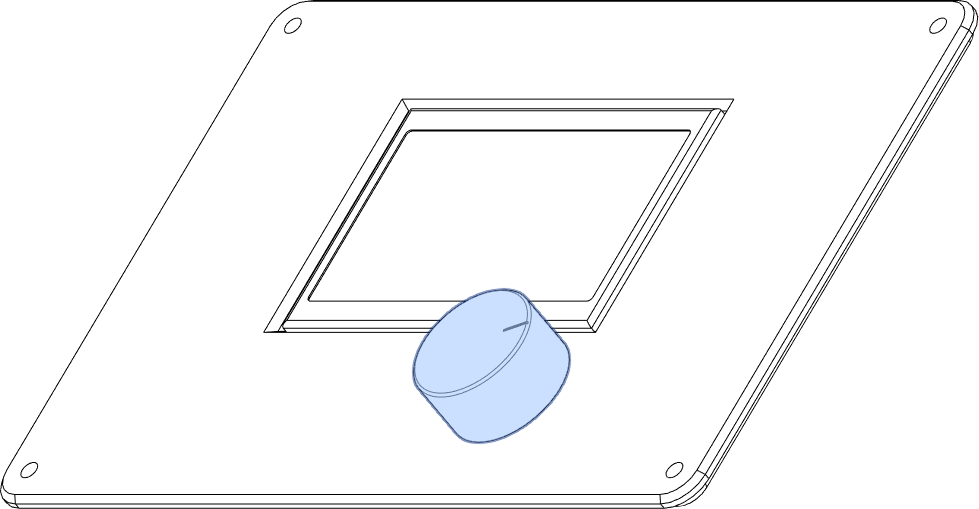
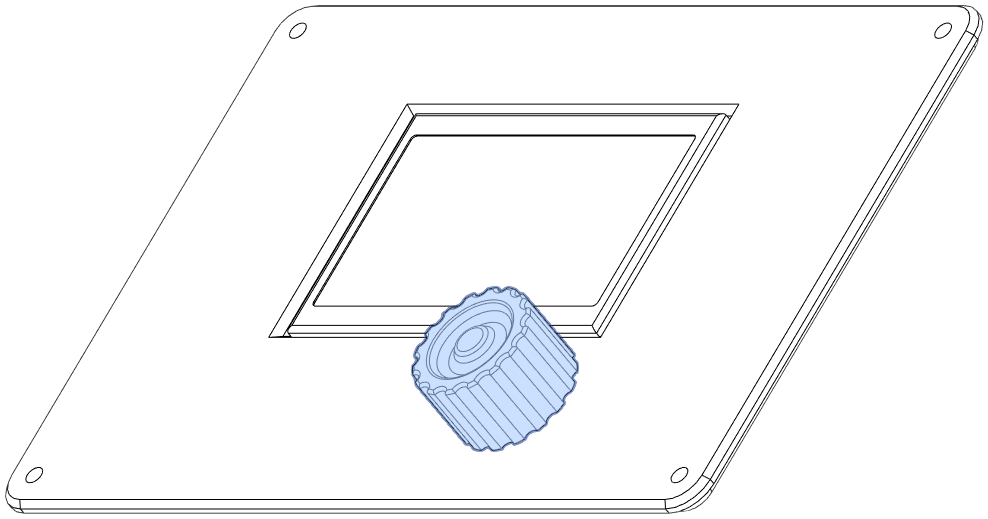
More updated docs

diff --git a/docs/assembly_v2/bottom_lid.md b/docs/assembly_v2/bottom_lid.md
@@ -1,62 +1,63 @@
 ---
-title: Rear Panel and Lid(s)
-summary: Adding the rear panel, wiring, and closing up.
+title: Bottom Panel & Lid
+summary: Final steps to close up the printer.
 authors: Jon Harper
-date: 2022-11-03
+date: 2022-11-15
 ---
 
-## Rear Panel
+This is the last section of the build. Here we close up the bottom and top of the case.
+
+## Bottom Panel
 
 ??? overview
-    <iframe src="https://jon-harper.github.io/OmniBox/video/0.9.9/rear.mp4" frameborder="0" width="100%" height="600px" allowfullscreen></iframe>
+    <iframe src="https://jon-harper.github.io/OmniBox/video/0.9.9/bottom.mp4" frameborder="0" width="100%" height="600px" allowfullscreen></iframe>
 
 ### Materials
+
+Note that builds requiring a base extension will need longer screws.
 
 === "As Illustrated"
 
     | Parts                     | Qty | Note                            |
     |---------------------------|-----|---------------------------------|
-    | M3 x 8mm machine screws   | 8   | May substitute 6mm screws.      |
-    | [:material-git: Rear Panel - Generic, No USB, No Fan][git_generic_rear] | 1  | :material-printer-3d-nozzle: Printed |
+    | M3 x 8mm machine screws   | 8   |                                 |
+    | [:material-git: Closed Bottom Panel][git_closed_bottom] | 1  | :material-printer-3d-nozzle: Printed, two (2) files |
 
 === "Generic"
 
     | Parts                     | Qty | Note                            |
     |---------------------------|-----|---------------------------------|
     | M3 x 8mm machine screws   | 8   | May substitute 10mm or 12mm.    |
-    | Rear Panel                | 1  | :material-printer-3d-nozzle: Printed |
+    | Bottom Panel              | 1  | :material-printer-3d-nozzle: Printed, two (2) files |
 
-=== "HSI"
+=== "With Base Extension"
 
     | Parts                     | Qty | Note                            |
     |---------------------------|-----|---------------------------------|
-    | M3 x 8mm machine screws   | 8   | May substitute 6mm screws.      |
-    | Rear Panel                | 1   | :material-printer-3d-nozzle: Printed |
+    | M3 x 20mm machine screws  | 8   |                                 |
+    | Bottom Panel              | 1   | :material-printer-3d-nozzle: Printed, two (2) files |
+    | [:material-git: Base Extension][git_base_extension] | 1 | :material-printer-3d-nozzle: Printed, two (2) files |
 
 ### Directions
                                                             
 <figure markdown>
-  [![illustration][rear1]{width="480"}][rear1]
-  <figcaption>1. Fit the rear panel against the back of the case.</figcaption>
+  [![illustration][bottom1]{width="480"}][bottom1]
+  <figcaption>1. Line up the front bottom panel with the front base.</figcaption>
 </figure>
 
 <figure markdown>
-  [![illustration][rear2]{width="480"}][rear2]
-  <figcaption>1. Fasten in place using eight (8) M3 screws.</figcaption>
+  [![illustration][bottom2]{width="480"}][bottom2]
+  <figcaption>2. Use four (4) M3 x 8mm screws to attach the panel.</figcaption>
+</figure>
+
+<figure markdown>
+  [![illustration][bottom3]{width="480"}][bottom3]
+  <figcaption>3. Use the same procedure for the rear bottom panel with four (4) more M3 x 8mm screws.</figcaption>
 </figure>
 
 ### Finished Reference
 
-![illustration][rear_final]
-
-## MCU Wiring
-
-Before we install the lid, all remaining wiring for the MCU and any other components should be completed.
-
-The number of combinations of printers and MCUs is nearly infinite. MCU wiring is therefore beyond the scope of this guide.
-
-!!! tip
-    It's often a good idea to run basic tests on your printer and MCU wiring before the next section.
+![illustration][bottom_final]
 
 ## Lid(s)
 
@@ -119,12 +120,21 @@ The example below uses a single, long lid. The procedure for installing two shor
 
 ![illustration][lid_final]
 
+<div align="center" markdown>
+## :material-check: That's it!
+   
+You've built an OmniBox! Congratulations!
+
+![logo][logo]
+</div>
+
 [lid1]: ../img/assembly/panels/lid/lid1.png
 [lid2]: ../img/assembly/panels/lid/lid2.png
 [lid3]: ../img/assembly/panels/lid/lid3.png
 [lid4]: ../img/assembly/panels/lid/lid4.png
 [lid_final]: ../img/assembly/panels/lid/lid_final.png
-
-[rear1]: ../img/assembly/panels/rear/rear1.png
-[rear2]: ../img/assembly/panels/rear/rear2.png
-[rear_final]: ../img/assembly/panels/rear/rear_final.png
+[bottom1]: ../img/assembly/panels/bottom/bottom1.png
+[bottom2]: ../img/assembly/panels/bottom/bottom2.png
+[bottom3]: ../img/assembly/panels/bottom/bottom3.png
+[bottom_final]: ../img/assembly/panels/bottom/bottom_final.png
+[logo]: ../img/favicon.png

diff --git a/docs/assembly_v2/rear.md b/docs/assembly_v2/rear.md
@@ -1,0 +1,97 @@
+---
+title: Rear Panel and Wiring
+summary: Adding the rear panel and wiring the MCU.
+authors: Jon Harper
+date: 2022-11-03
+---
+
+## Rear Panel
+
+??? overview
+    <iframe src="https://jon-harper.github.io/OmniBox/video/0.9.9/rear.mp4" frameborder="0" width="100%" height="600px" allowfullscreen></iframe>
+
+### Materials
+
+=== "As Illustrated"
+
+    | Parts                     | Qty | Note                            |
+    |---------------------------|-----|---------------------------------|
+    | M3 x 8mm machine screws   | 8   | May substitute 6mm screws.      |
+    | [:material-git: Rear Panel - Generic, No USB, No Fan][git_generic_rear] | 1  | :material-printer-3d-nozzle: Printed |
+
+=== "Generic"
+
+    | Parts                     | Qty | Note                            |
+    |---------------------------|-----|---------------------------------|
+    | M3 x 8mm machine screws   | 8   | May substitute 10mm or 12mm.    |
+    | Rear Panel                | 1  | :material-printer-3d-nozzle: Printed |
+
+=== "HSI"
+
+    | Parts                     | Qty | Note                            |
+    |---------------------------|-----|---------------------------------|
+    | M3 x 8mm machine screws   | 8   | May substitute 6mm screws.      |
+    | Rear Panel                | 1   | :material-printer-3d-nozzle: Printed |
+
+### Directions
+                                                            
+<figure markdown>
+  [![illustration][rear1]{width="480"}][rear1]
+  <figcaption>1. Fit the rear panel against the back of the case.</figcaption>
+</figure>
+
+<figure markdown>
+  [![illustration][rear2]{width="480"}][rear2]
+  <figcaption>1. Fasten in place using eight (8) M3 screws.</figcaption>
+</figure>
+
+### Finished Reference
+
+![illustration][rear_final]
+
+## MCU Wiring
+
+Before we install the lid, all remaining wiring for the MCU and any other components should be completed. The combinations of MCUs and printers (and their types of wiring harnesses!) is too large to fit this guide. Below are tips and links to other resources. This section will grow with time.
+
+### Safety 
+
+- Double-check your work.
+- Be prepared to cut power instantly during both power on and testing the printer.
+- **Safe your printer against ground faults!**
+    - Grounding to earth protects in case of a number of issues, e.g., a short in the bed touching the frame.
+    - Connect your frame to the AC ground (usually a yellow or green wire, **not** the black neutral wire).
+    - Do not assume your power supply case is safely earthed—test with a multimeter.
+    - [TH3D has a page with helpful videos on the subject][ground_guide].
+
+<figure markdown>
+  [![illustration][earth]{width="480"}][earth]
+  <figcaption>Grounding-to-earth requires connecting your frame to this wire, directly or indirectly.</figcaption>
+</figure>
+
+### General Tips
+
+- Double-check your work as you go.
+- Label connectors with where they attach to the MCU board for easy removal and reconnection later (e.g., `TB` for the bed thermistor header).
+- Check connector pins:
+    - Many connector pins are not designed for frequent removal: wires may pull free from the pin or pin from the connector.
+    - They can become damaged or have come loose during removal, particularly if force was needed.
+    - This is particularly true for JST XH connectors, usually used for fans, thermistors, and endstops.
+- Zip tie anchors:
+    - The zip tie anchors in the sides of the case are very helpful for longer wires.
+    - If you are crimping your own wires, extra length can be used to keep the wiring clean.
+
+<figure markdown>
+  [![illustration][wiring]{width="480"}][wiring]
+  <figcaption>Ex: Each connector is labeled and zip-tied out of the way.</figcaption>
+</figure>
+
+!!! note "Before Continuing"
+    It is a good idea to perform initial power on tests before proceeding and closing the case.
+
+
+[rear1]: ../img/assembly/panels/rear/rear1.png
+[rear2]: ../img/assembly/panels/rear/rear2.png
+[rear_final]: ../img/assembly/panels/rear/rear_final.png
+
+[earth]: ../img/assembly/earth.png
+[wiring]: ../img/assembly/wiring.jpg

diff --git a/docs/assembly_v2/mcu.md b/docs/assembly_v2/mcu.md
@@ -1,5 +1,5 @@
 ---
-title: MCU & MCU Wiring
+title: MCU Tray
 summary: Instructions for installing the MCU tray.
 authors: Jon Harper
 date: 2022-10-30
@@ -18,27 +18,22 @@ date: 2022-10-30
     | Parts                     | Qty | Note                            |
     |---------------------------|-----|---------------------------------|
     | M3 x 6mm machine screws   | 4   | Some boards may use 5 or more.  |
-    | M3 x 8mm machine screws   | 4   | May substitute 10mm or 12mm.    |
+    | M3 x 8mm machine screws   | 4   | See note.                       |
     | BIGTREETECH SKR 2         | 1   |                                 |
     | [:material-git: MCU Tray - BTT SKR 1.3-2][git_btt_skr] | 1   | :material-printer-3d-nozzle: Printed |
 
-=== "Stock"
+=== "Generic"
 
     | Parts                     | Qty | Note                            |
     |---------------------------|-----|---------------------------------|
     | M3 x 6mm machine screws   | 4   | Some boards may use 5 or more.  |
-    | M3 x 8mm machine screws   | 4   | May substitute 10mm or 12mm.    |
-    | Compatible MCU            | 1   | Illustrated: BIGTREETECH SKR 2  |
+    | M3 x 8mm machine screws   | 4   | See note.                       |
+    | Compatible MCU            | 1   |                                 |
     | MCU Tray                  | 1   | :material-printer-3d-nozzle: Printed |
 
-=== "HSI"
-
-    | Parts                     | Qty | Note                            |
-    |---------------------------|-----|---------------------------------|
-    | M3 x 6mm machine screws   | 4   | Some boards may use 5 or more.  |
-    | M3 x 8mm machine screws   | 4   | May substitute 6mm.             |
-    | Compatible MCU            | 1   | Illustrated: BIGTREETECH SKR 2  |
-    | MCU Tray                  | 1   | :material-printer-3d-nozzle: Printed |
+!!! note "Note: M3 x 8mm machine screws"
+    - Stock builds may use longer screws as the plastic wears.
+    - HSI builds may use 6mm screws instead.
 
 ### Directions
                                                             
@@ -48,9 +43,7 @@ date: 2022-10-30
 </figure>
 
 !!! important
-    Smaller boards with symmetric screw holes can be mounted in either direction.
-    
-    Larger trays (e.g. BIGTREETECH Octopus or Manta M8P) will only fit in the case if the board is oriented one way, as the trays are not symmetrical. If you have a large board, test which orientation is correct before securing the MCU.
+    Larger trays (e.g. BIGTREETECH Octopus or Manta M8P) will only fit in the case if the board is oriented one way, as the trays are not symmetrical. If you have a large MCU board, check which direction fits in the case before securing the MCU to the tray.
 
 <figure markdown>
   [![illustration][mcu2]{width="480"}][mcu2]
@@ -58,13 +51,13 @@ date: 2022-10-30
 </figure>
 
 <figure markdown>
-  [![illustration][mcu3]{width="480"}][mcu3]
+  [![illustration][mcu3]][mcu3]
   <figcaption>3. Set the MCU tray on the pillars in the case. Ideally, the MCU power connectors should orient to the back of the case or to the side.</figcaption>
 </figure>
 
 <figure markdown>
-  [![illustration][mcu4]{width="480"}][mcu4]
-  <figcaption>4. Secure with four (4) M3 x 8mm screws.</figcaption>
+  [![illustration][mcu4]][mcu4]
+  <figcaption>4. Fasten to the case with four (4) M3 x 8mm screws.</figcaption>
 </figure>
 
 ### Finished Reference

diff --git a/docs/assembly_v2/display.md b/docs/assembly_v2/display.md
@@ -21,7 +21,7 @@ Common aftermarket TFT displays have an extra step of mounting the display to a 
     | M3 x 6mm machine screws   | 4   |                                 |
     | M3 x 8mm machine screws   | 4   | May substitute 10mm or 12mm.    |
     | Generic 12864 LCD         | 1   | Comes with many Creality printers. |
-    | [:material-git: Display Panel][git_generic_12864] | 1   | :material-printer-3d-nozzle: Printed |
+    | [:material-git: `Display Panel - Generic 12864.stl`][git_generic_12864] | 1   | :material-printer-3d-nozzle: Printed |
     | [:material-git: Display Knob][git_display_knob] | 1 | :material-printer-3d-nozzle: Printed, Optional |
 
 
@@ -29,21 +29,22 @@ Common aftermarket TFT displays have an extra step of mounting the display to a 
 
     | Parts                     | Qty | Note                            |
     |---------------------------|-----|---------------------------------|
-    | M3 x 12mm machine screws  | 4   | Can also use 10mm.              |
+    | M3 x 10mm machine screws  | 4   | Can also use 12mm.              |
     | Compatible LCD display    | 1   |                                 |
-    | Display Panel | 1   | :material-printer-3d-nozzle: Printed |
+    | Display Panel             | 1   | :material-printer-3d-nozzle: Printed |
+    | [:material-git: Display Knob][git_display_knob] | 1 | :material-printer-3d-nozzle: Printed, Optional |
 
 === "HSI"
 
     | Parts                     | Qty | Note                            |
     |---------------------------|-----|---------------------------------|
     | M3 x 8mm machine screws   | 4   |                                 |
-    | Compatible LCD display    | 1   | |
-    | Display Panel | 1   | :material-printer-3d-nozzle: Printed |
-
+    | Compatible LCD display    | 1   |                                 |
+    | Display Panel             | 1   | :material-printer-3d-nozzle: Printed |
+    | [:material-git: Display Knob][git_display_knob] | 1 | :material-printer-3d-nozzle: Printed, Optional |
 
 !!! note
-    The Stock and HSI materials lists do not include the hardware needed to mount the display to the panel. Only hardware common to all configurations are listed.
+    Only the fasteners required to mount the printed panel to the case are listed in the Stock and HSI materials.
     
 ## Directions
                                                             
@@ -59,7 +60,7 @@ Common aftermarket TFT displays have an extra step of mounting the display to a 
 
 <figure markdown>
   [![illustration][display3]{width="480"}][display3]
-  <figcaption>3. Push the knob back in place. If you have a printed knob, use it in place of the original.</figcaption>
+  <figcaption>3. If you have a printed knob, push it back in place of the original. Otherwise, push the original knob back.</figcaption>
 </figure>
 
 <figure markdown>

diff --git a/docs/index.md b/docs/index.md
@@ -69,7 +69,7 @@ Every effort is made to avoid incompatibilities between versions, and so far all
 
 With version 1.0, changes may be made that cause deprecated parts to lose compatibility. This is a final chance to "lock in" the design.
 
-At this point, OmniBox releases will come with a Version Stability Guarantee:
+At this point, OmniBox releases will come with a **Version Stability Guarantee**:
 
 The way that Core components fit together and panels and trays attach to the case will be "frozen" and stable. If you choose to print a newer version of a Core part, no panels or trays will need to be reprinted. New products added in future releases can likewise be used in the Core case body from a prior release.
 

diff --git a/include/git_links.md b/include/git_links.md
@@ -121,3 +121,4 @@
 [twitter]: https://twitter.com/TheOmniBox "@TheOmniBox (Twitter)"
 [reddit]: https://www.reddit.com/user/jonspaceharper/ "u/jonspaceharper (Reddit)"
 [crimp_guide]: https://www.fscables.com/sites/admin/plugins/elfinder/files/fscables/other%20pdf/cablecraft_crimp_guide.pdf "Cablecraft: A Comprehensive Guide to Good Crimping Practice"
+[ground_guide]: https://support.th3dstudio.com/helpcenter/printer-grounding-how-to-check-your-psu-and-grounding-your-bed/ "TH3D Bed Grounding Guide"
